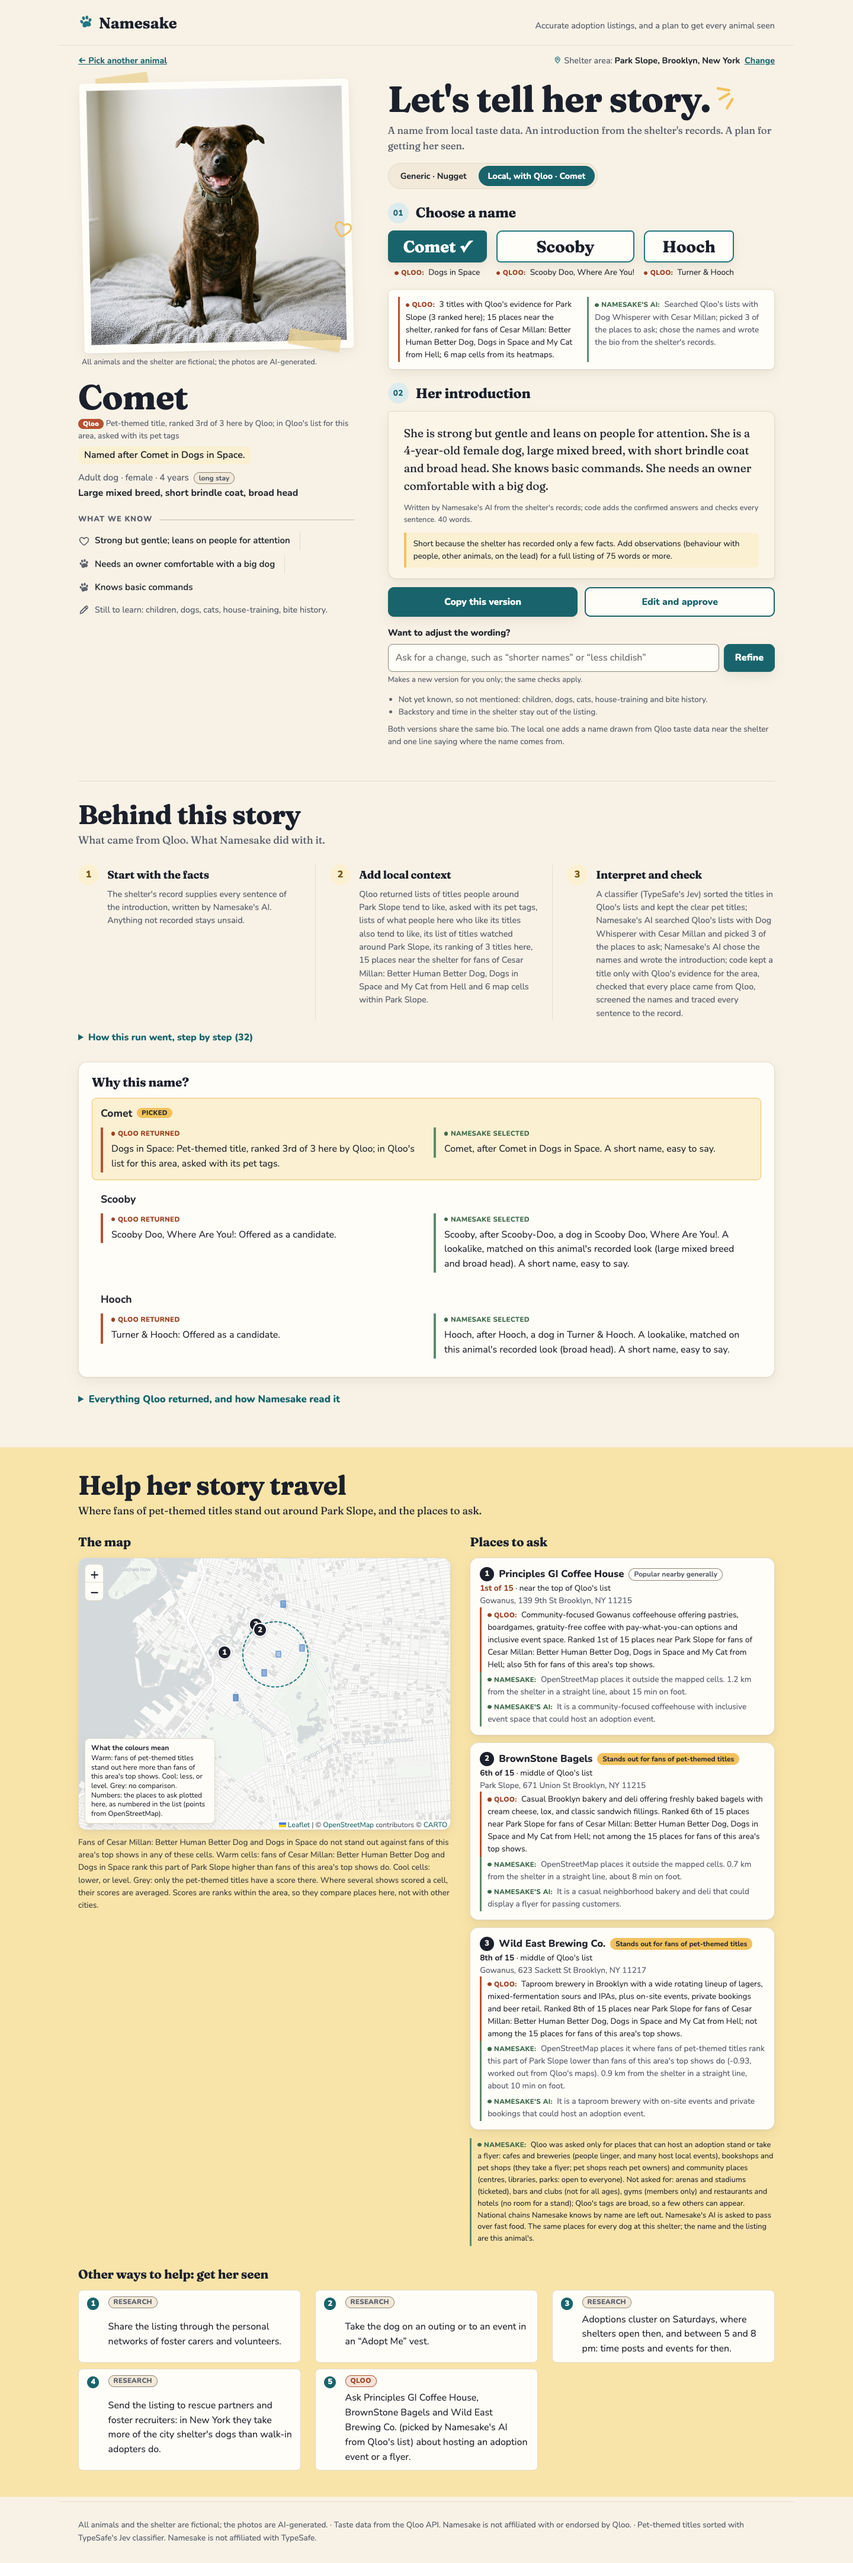
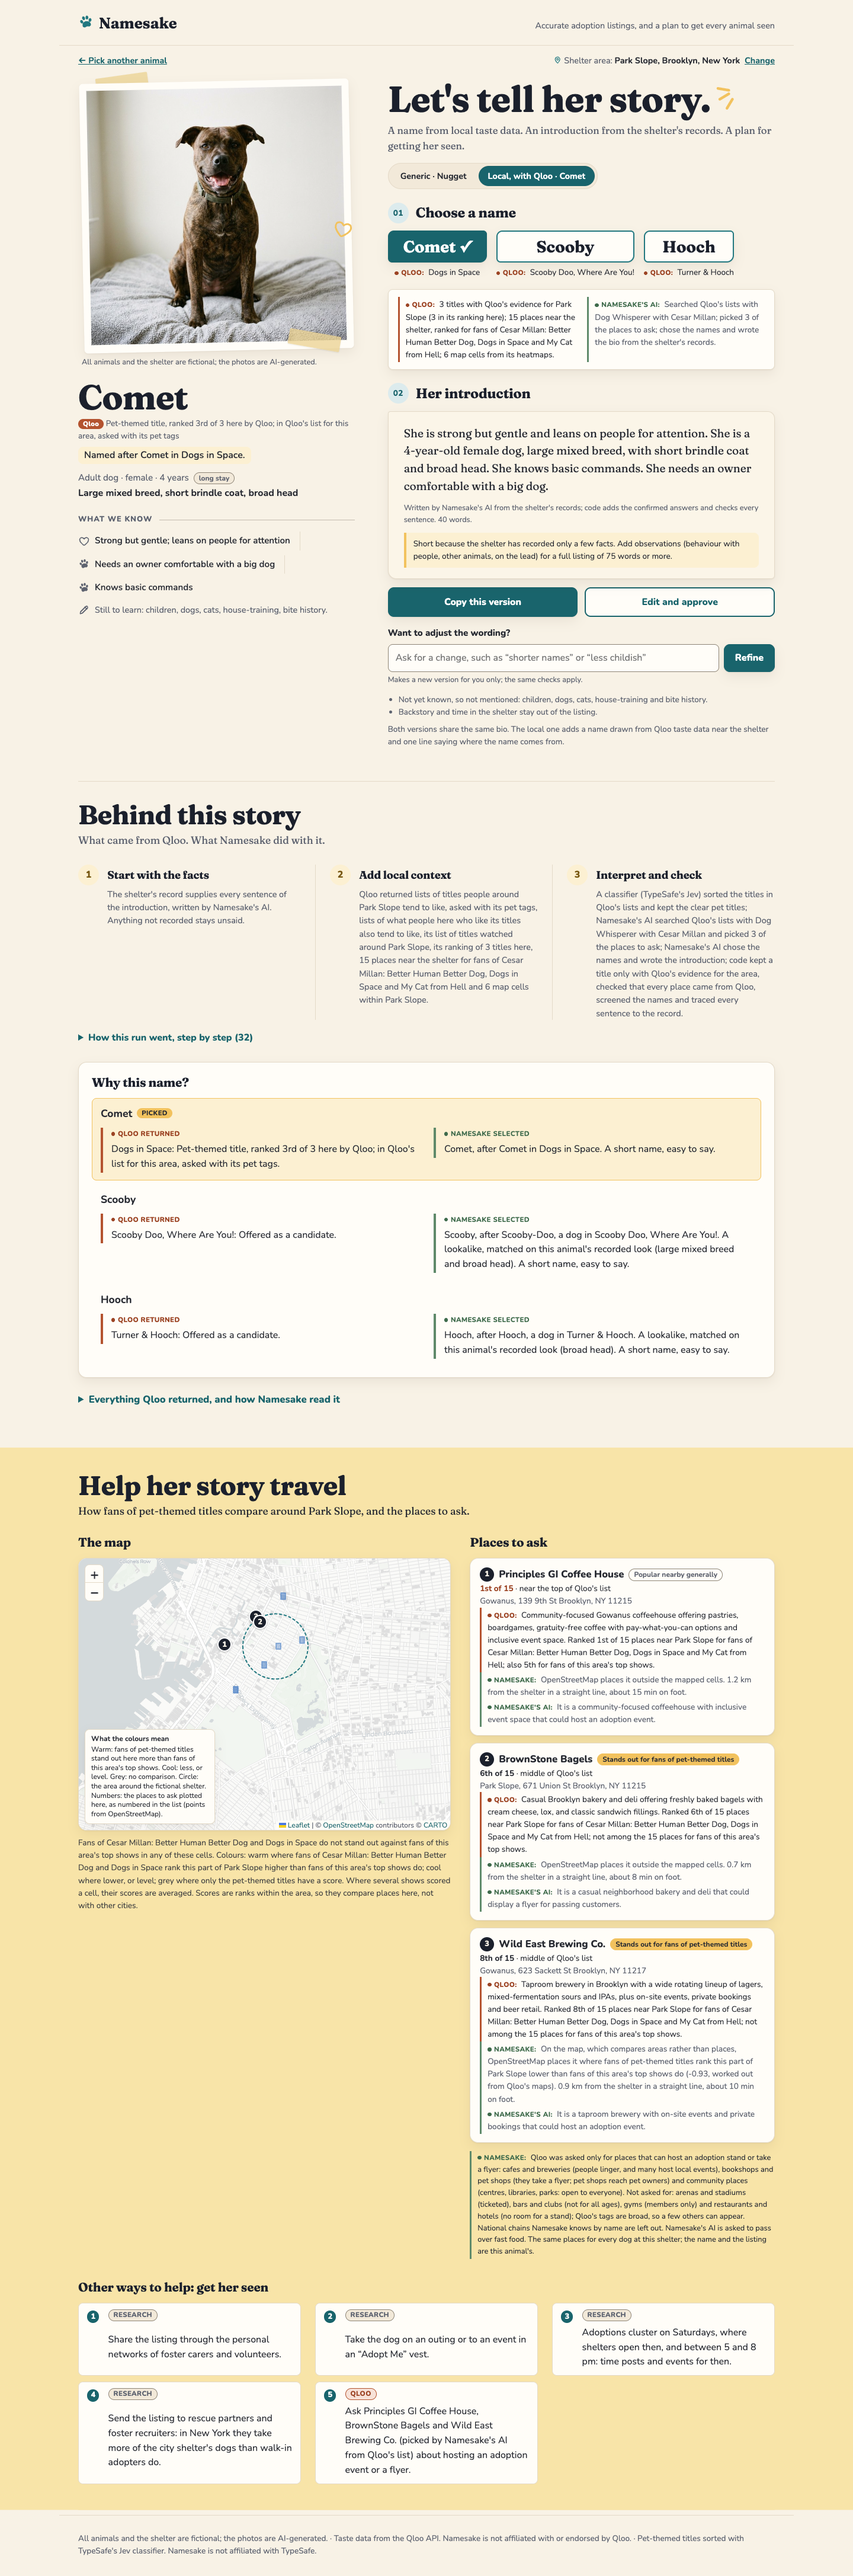
Screenshots retaken after the wording fixes: the first screen, the whole page, the two neighbourhoods stacked to read at README width, the map and places inline

diff --git a/README.md b/README.md
@@ -14,7 +14,7 @@ A **generic version** of the listing sits beside the **local version**, so you c
 
 Built for the [Qloo Agentic Hackathon](https://qloo-hackathon.devpost.com/). Taste data from the Qloo API; not affiliated with Qloo.
 
-![The first screen of the result for the lead dog in Park Slope, in the story skin: the photo and recorded facts on the left; "Let's tell her story" with the Generic and Local version toggle; three name options (Comet, Scooby, Hooch), each with its Qloo title under it; a strip with what Qloo returned beside what Namesake's AI did, including the title it searched Qloo's lists with; and the start of her introduction](docs/img/result-first-screen.png)
+![The first screen of the result for the lead dog in Park Slope, in the story skin: her photo, the local name Comet with its line "Named after Comet in Dogs in Space." and the start of what the shelter recorded on the left; "Let's tell her story" with the Generic and Local version toggle; three name options (Comet, Scooby, Hooch), each with its Qloo title under it; a strip with what Qloo returned beside what Namesake's AI did, including the title it searched Qloo's lists with; and the start of her introduction](docs/img/result-first-screen.png)
 
 The whole result page, with "Behind this story", the map and the places to ask: [`docs/img/result.png`](docs/img/result.png).
 
@@ -37,7 +37,7 @@ Namesake does **not** claim to get animals adopted faster, save lives or money, 
 
 The same dog, the same record, two neighbourhoods of one city. Park Slope offers Comet, Scooby and Hooch; Astoria offers Bluey, Moon and Scooby-Doo. The local name comes from a pet-themed title Qloo ranks in each area (Comet from *Dogs in Space*, Bluey from *Bluey*); the other options come from the area's titles (Moon) or from lookalike titles Namesake's AI proposed and Qloo confirmed (Scooby, Hooch, Scooby-Doo).
 
-![The lead dog's result in Park Slope (left: Comet, from Dogs in Space) and in Astoria (right: Bluey, from Bluey), each with its own Qloo titles and its own strip of what Qloo returned and what Namesake's AI did](docs/img/two-neighbourhoods.png)
+![The lead dog's result in Park Slope, Brooklyn (top: Comet, Scooby and Hooch) and in Astoria, Queens (bottom: Bluey, Moon and Scooby-Doo): each with its version toggle, its name options with their Qloo titles, and its own strip of what Qloo returned and what Namesake's AI did](docs/img/two-neighbourhoods.png)
 
 Namesake's AI (two agents, one per area and one per animal) and some plain code call Qloo through the official harness (`qloo exec`, pinned at 0.1.26). Every call is cached in SQLite and spaced at least 5 seconds apart, because the hackathon key is rate-limited; a refused ranking is retried after a longer wait.
 
@@ -111,6 +111,8 @@ The decisions behind each row, with their evidence, are in [`docs/decisions.md`]
    - **Behind this story**: the facts, Qloo's local context, and the interpretation and checks; the saved run's own step log, folded, each step marked Qloo, Namesake's AI, Classifier or Code; then for each name what Qloo returned beside what Namesake selected, and a **Why** drawer with two columns, "Qloo returned" (the Qloo calls behind the result: Qloo's pet-tag lists and the AI's own lookups, searches and ranking, then the assembly's) and "How Namesake read it" (Namesake's AI and its code)
    - a **map** of where fans of pet-themed titles stand out within the area, and the **places to ask**, under a note on which kinds of place were asked for and why, each with Qloo's description, its rank ("2nd of 15 · near the top of Qloo's list") and its comparison with the baseline on one Qloo line, numbered on the map, with the cell it sits in and its distance from the shelter (points from OpenStreetMap)
    - the **other ways to help**, each labelled Research, Qloo or Our suggestion; for an animal recorded as not good with children, places whose name or Qloo description mentions children are skipped, and the list says so
+
+   ![The Park Slope result's "Help her story travel" band: the map of how fans of pet-themed titles compare with fans of the area's top shows, with its key, the dashed circle around the fictional shelter and the places numbered; and the three places to ask, each with Qloo's description and rank, Namesake's reading and the reason Namesake's AI gives](docs/img/result-map.png)
 
    The `warm` and `classic` skins show the same listing, names, map, places and Why panel with Qloo's part and the AI's at the top, without story's "Behind this story" framing, the saved run's step log or the button that starts a run.
 4. **Refine** with one line ("less childish"), **edit**, **approve**, and copy a block ready to paste into shelter software. A result with no listing yet also offers "Write her story with Namesake's AI" (for a member of a litter, naming the litter as a set).

diff --git a/docs/decisions.md b/docs/decisions.md
@@ -378,7 +378,7 @@ The refusal keeps the edit and names the missing words.
 
 **Revised 19 October, story is the default** (the author: "have story as default skin"): the `UI` setting's default is now `story`. `warm` is kept for `?ui=warm` and comparison, as `classic` is, and the contract test runs against all three. The README screenshot (`docs/img/result.png`) was retaken from the live story page at 1024 px wide (at 1440 since, below), and the README's walkthrough follows story's order.
 
-**Revised 19 October, the screenshots, after the audits:** the README leads with the result's first screen at 1440 × 900 (`docs/img/result-first-screen.png`), legible as one image, and links the whole page (`docs/img/result.png`, 1440 wide); `docs/img/two-neighbourhoods.png` sets the lead dog's Park Slope and Astoria results side by side: the same record, a local name from a pet-themed title Qloo ranks in each area, and the other options from the area's titles or lookalike titles. All three were taken from the live site after the examples were rebuilt under decision 26. The map's caption now reads its colours as a key ("Colours: warm where …") and the map's own key explains the dashed circle on every map with cells, the travel band's lead asks how fans compare rather than claiming they stand out, the strip counts titles "in its ranking here" (the badge's "2nd of 3" counts the whole ranking), and a place's map line says the map compares areas, not places: the screenshots showed each of these reading as a contradiction, most where the data was thin (Park Slope's dog map has no warm cell).
+**Revised 19 October, the screenshots, after the audits:** the README leads with the result's first screen at 1440 × 900 (`docs/img/result-first-screen.png`), legible as one image, and links the whole page (`docs/img/result.png`, 1440 wide); `docs/img/two-neighbourhoods.png` stacks the lead dog's Park Slope and Astoria results, each pane cropped to the names and the strip so it reads at README width, and `docs/img/result-map.png` shows the map and the places to ask inline: the same record, a local name from a pet-themed title Qloo ranks in each area, and the other options from the area's titles or lookalike titles. All three were taken from the live site after the examples were rebuilt under decision 26. The map's caption now reads its colours as a key ("Colours: warm where …") and the map's own key explains the dashed circle on every map with cells, the travel band's lead asks how fans compare rather than claiming they stand out, the strip counts titles "in its ranking here" (the badge's "2nd of 3" counts the whole ranking), and a place's map line says the map compares areas, not places: the screenshots showed each of these reading as a contradiction, most where the data was thin (Park Slope's dog map has no warm cell).
 
 ## 25. The demo's model: Muse Spark first, then Claude Opus 5.5, then DeepSeek Flash
 

diff --git a/docs/devpost.md b/docs/devpost.md
@@ -8,7 +8,7 @@ Paste-ready sections for the Devpost form. Same claim rules as the README: no "a
 
 **Demo:** https://namesake.bogdansabau.eu
 **Code:** https://github.com/bsabau/namesake (MIT)
-**Images for the gallery:** `docs/img/result-first-screen.png` (the first screen, 1440 × 900), `docs/img/two-neighbourhoods.png` (the same dog in Park Slope and Astoria), `docs/img/result.png` (the whole result page).
+**Images for the gallery:** `docs/img/result-first-screen.png` (the first screen, 1440 × 900), `docs/img/two-neighbourhoods.png` (the same dog in Park Slope and Astoria), `docs/img/result-map.png` (the map and the places to ask), `docs/img/result.png` (the whole result page).
 
 ---
 
